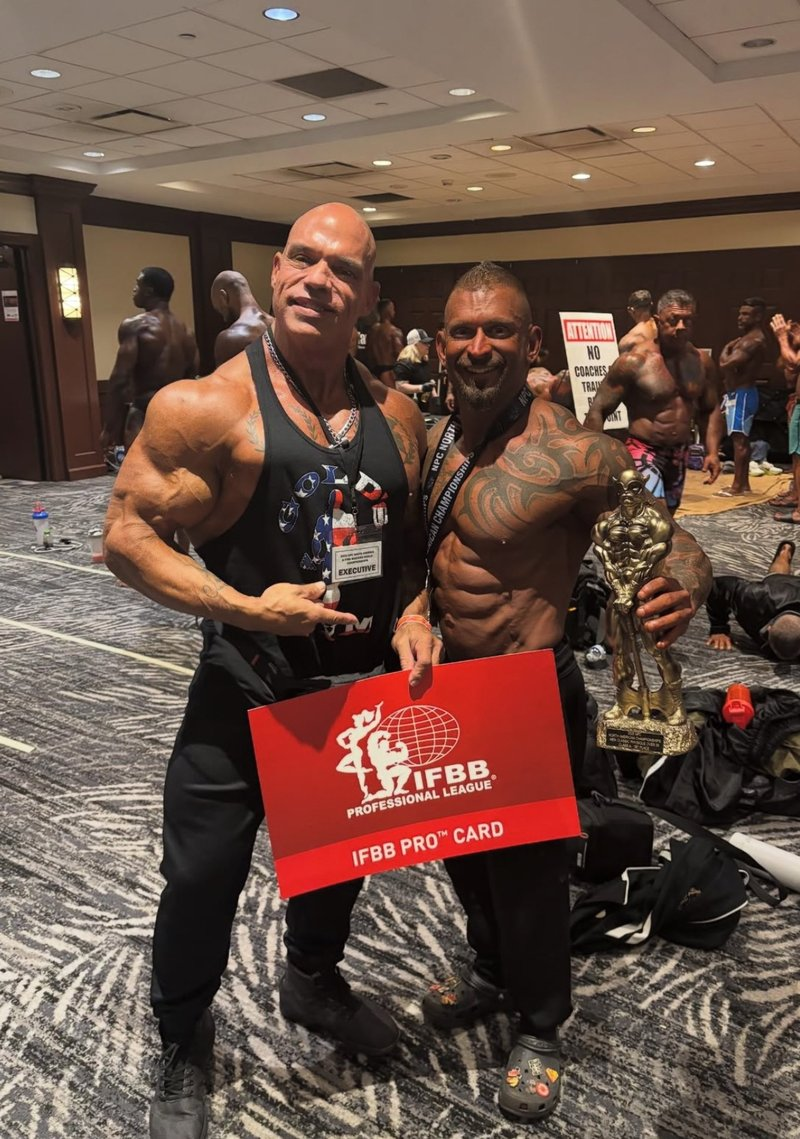
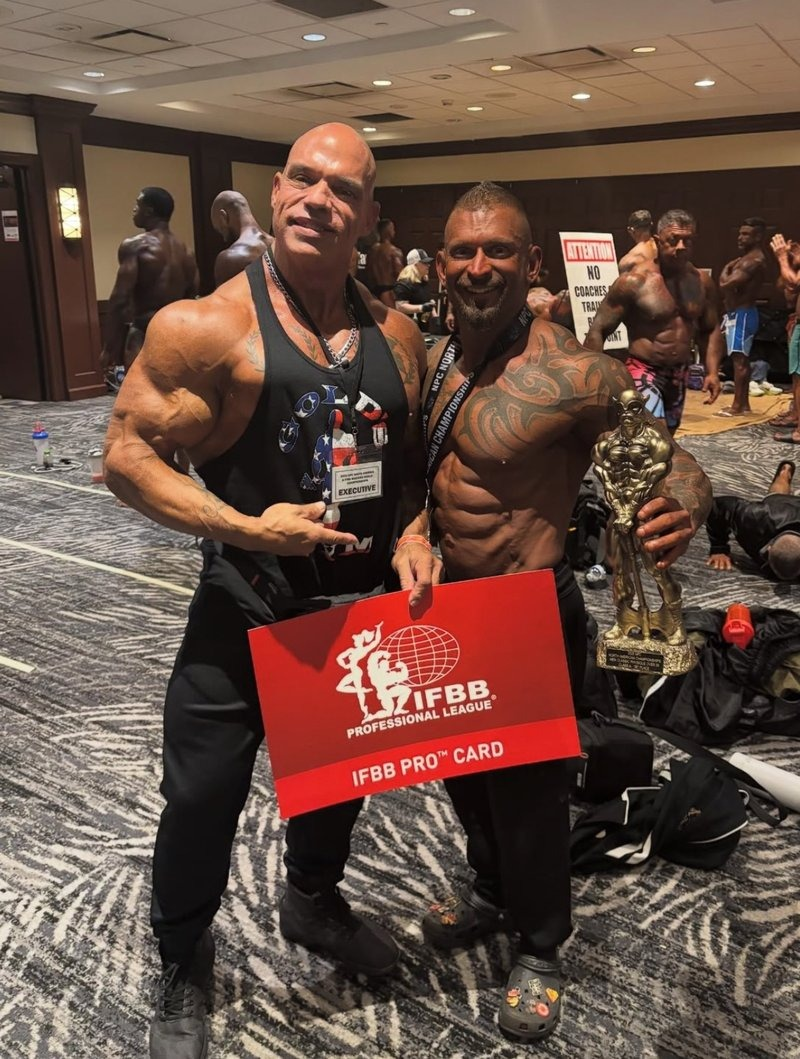
Fix section heading, spacing, photo crops, Hany framing
- Rename "The Record Speaks" → "The Track Record" (less corny)
- Reduce diamond divider margin from 24px to 12px (less dead space)
- Crop IG 1/4 counter from results-procard-backstage.jpg
- Shift Hany Rambod photo left to show Mike's jacked arm in frame

https://claude.ai/code/session_01Yabx9uNFuZQ9oobBMWA1fP

diff --git a/index.html b/index.html
@@ -335,7 +335,7 @@ button{font-family:inherit;cursor:pointer;border:none;background:none}a,button{t
 /* GOLD DIVIDERS */
 .gw{height:1px;max-width:200px;margin:0 auto;background:var(--goldGrad);opacity:.45;animation:lineGlow 4s ease-in-out infinite;box-shadow:0 0 16px var(--accS),0 0 40px rgba(224,176,48,.08),0 0 60px rgba(224,176,48,.03)}
 .gw-sm{height:1px;max-width:100px;margin:0 auto;background:var(--goldGrad);opacity:.35;box-shadow:0 0 16px rgba(224,176,48,.06),0 0 28px rgba(224,176,48,.04)}
-.gw-diamond{width:6px;height:6px;margin:24px auto;background:linear-gradient(135deg,#C49828,#F2E4A0,#C49828);transform:rotate(45deg);opacity:.4;box-shadow:0 0 12px rgba(224,176,48,.2),0 0 24px rgba(224,176,48,.06);animation:breathe 6s ease-in-out infinite;position:relative}
+.gw-diamond{width:6px;height:6px;margin:12px auto;background:linear-gradient(135deg,#C49828,#F2E4A0,#C49828);transform:rotate(45deg);opacity:.4;box-shadow:0 0 12px rgba(224,176,48,.2),0 0 24px rgba(224,176,48,.06);animation:breathe 6s ease-in-out infinite;position:relative}
 .gw-diamond::before,.gw-diamond::after{content:'';position:absolute;top:50%;height:1px;width:clamp(40px,10vw,100px);background:linear-gradient(90deg,rgba(224,176,48,.25),transparent);transform:translateY(-50%)}
 .gw-diamond::before{right:calc(100% + 10px)}
 .gw-diamond::after{left:calc(100% + 10px);background:linear-gradient(270deg,rgba(224,176,48,.25),transparent)}
@@ -807,7 +807,7 @@ img[loading="lazy"]{opacity:0;transition:opacity .6s var(--ease)}img[loading="la
     <!-- PHOTO STRIP — the people in his world -->
     <div class="about-photos reveal">
       <div class="circle-photo" onclick="openLB(this)" role="button" tabindex="0" onkeydown="if(event.key==='Enter'||event.key===' '){event.preventDefault();openLB(this)}">
-        <img src="img/about-hany-rambod.jpg" alt="Mike with Hany Rambod — The Pro Creator" loading="lazy" style="object-position:center center">
+        <img src="img/about-hany-rambod.jpg" alt="Mike with Hany Rambod — The Pro Creator" loading="lazy" style="object-position:left 30% top 20%">
         <div class="circle-label">With Hany Rambod</div>
       </div>
       <div class="circle-photo" onclick="openLB(this)" role="button" tabindex="0" onkeydown="if(event.key==='Enter'||event.key===' '){event.preventDefault();openLB(this)}">
@@ -851,7 +851,7 @@ img[loading="lazy"]{opacity:0;transition:opacity .6s var(--ease)}img[loading="la
      ═══════════════════════════════════════════════════════════════ -->
 <section class="section" id="results">
   <div class="inner">
-    <h2 class="s-head reveal">The Record Speaks</h2>
+    <h2 class="s-head reveal">The Track Record</h2>
 
     <!-- 4 stat cards -->
     <div class="num-grid">
